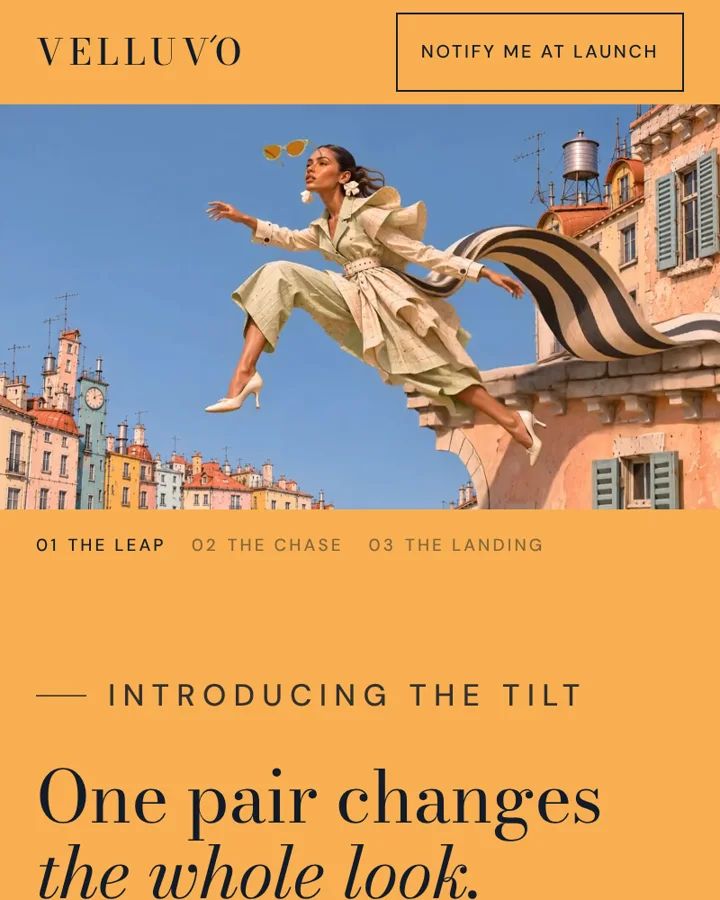
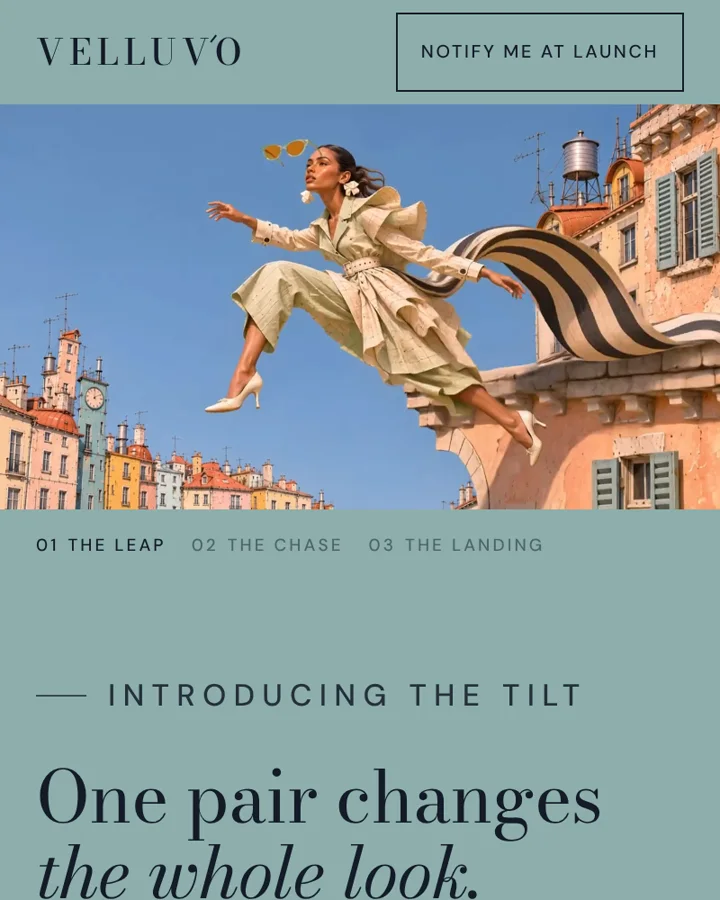
VELLUVO: switch frame color from marigold to the window-shutter blue
Claude-Session: https://claude.ai/code/session_01W1RY6eQtt6J9DsUmacabTr

diff --git a/demos/velluvo/index.html b/demos/velluvo/index.html
@@ -6,7 +6,7 @@
 <title>VELLUVO | The Tilt, coming soon</title>
 <meta name="description" content="Meet The Tilt by VELLUVO, a sculptural cat-eye in three unexpected colorways. Join the waitlist for one email at launch.">
 <meta name="robots" content="noindex">
-<meta name="theme-color" content="#F8AF51">
+<meta name="theme-color" content="#8DAEAB">
 <link rel="preload" href="fonts/bodoni-moda-latin-400-normal.woff2" as="font" type="font/woff2" crossorigin>
 <link rel="preload" href="fonts/dm-sans-latin-500-normal.woff2" as="font" type="font/woff2" crossorigin>
 <style>
@@ -18,7 +18,7 @@
 
 :root{
   --ivory:#F4EEE3; --paper:#FAF7F1; --ink:#131B29; --ink-2:#4A505C; --line:#D9CDB8;
-  --stone:#E7DAC5; --tang:#E2702A; --light:#FBF7EF; --mari:#F8AF51; --cream:#FBF3E4;
+  --stone:#E7DAC5; --tang:#E2702A; --light:#FBF7EF; --mari:#8DAEAB; --cream:#FBF3E4;
   --serif:"Bodoni Moda","Didot","Bodoni 72",Georgia,serif;
   --sans:"DM Sans",system-ui,-apple-system,"Segoe UI",sans-serif;
   --hdr:64px; --pad:clamp(20px,5vw,72px);
